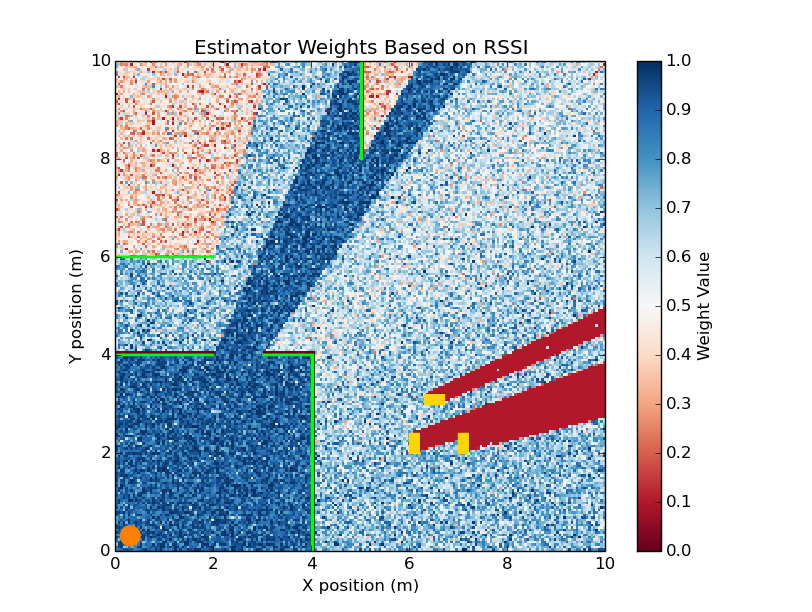
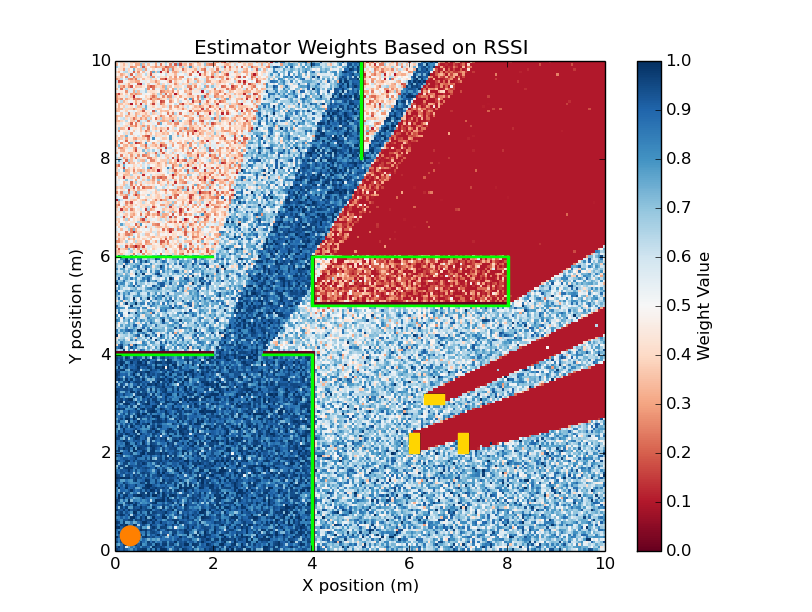
Added a path generation/follower and added a new environment

diff --git a/main.py b/main.py
@@ -16,7 +16,7 @@ import matplotlib.pyplot as plt
 if __name__ == "__main__":
 
 	# Setup Environment and display boundaries and obstacles
-	env = Environment(2)
+	env = Environment(4)
 	print "Boundaries\n", env.boundaries
 	print "Obstacles\n", env.obstacles
 
@@ -172,6 +172,135 @@ if __name__ == "__main__":
 		p = ptc.Circle((ap['x'],ap['y']),radius=0.2,edgecolor="#ff8000",facecolor='#ff8000')
 		ax1.add_patch(p)
 		heat_weights(beacon_positions,all_weights[:,i-3],length,length,beacon_positions_x,beacon_positions_y)
+
+	## Create a path to "follow"
+	waypoints = [[2,2,0],[2.5,2,0],[2.5,5,0],[3,5,0],[3,7,0],[9,7,0],[9,1,0],[6.5,1,0],[6.5,1.5,0]]
+	path_points = []
+
+	step = .05
+	j = 0
+	path_points.append(waypoints[0])
+	for i in range(0,len(waypoints)-1):
+		while (path_points[j][0]!=waypoints[i+1][0]) or (path_points[j][1]!=waypoints[i+1][1]):
+			new_x = 0
+			new_y = 0
+			if( abs(waypoints[i+1][0]-path_points[j][0])>step ):
+				if( path_points[j][0]>waypoints[i+1][0] ):
+					new_x = path_points[j][0]-step
+				else:
+					new_x = path_points[j][0]+step
+			else:
+				new_x = waypoints[i+1][0]
+			if( abs(waypoints[i+1][1]-path_points[j][1])>step ):
+				if( path_points[j][1]>waypoints[i+1][1] ):
+					new_y = path_points[j][1]-step
+				else:
+					new_y = path_points[j][1]+step
+			else:
+				new_y = waypoints[i+1][1]
+			path_points.append([new_x,new_y,0])
+			j = j + 1
+
+	path_distances = []
+	# For each beacon position run the algorithm to obtain an estimated position
+	for b_pos in path_points:
+		path_distance = []
+		# If the point is in an obstacle, return zeros
+		if env.in_obstacle(b_pos):
+			for a in anchors:
+				path_distance.append(0)
+		else:
+			beacon.move_pos(b_pos[0],b_pos[1],b_pos[2])
+			bp = beacon.get_pos()
+			for a in anchors:
+				ap = a.get_pos()
+				collision = env.determine_NLOS([ap['x'],ap['y']],[bp['x'],bp['y']])
+
+				path_distance.append(get_distance(a,bp,collision))
+		path_distances.append(path_distance)
+
+	print len(path_points)
+
+	weighted_estimated_pos = np.zeros((len(path_points),3))
+	unweighted_estimated_pos = np.zeros((len(path_points),3))
+	# Use middle of room for guess
+	x_guess = np.array([5,5])
+
+	all_weights = np.zeros((len(path_distances),len(anchors)))
+	for i in range(len(path_distances)):
+
+		a_pos = np.zeros((len(anchors),2))
+		for j in range(len(anchors)):
+			pos = anchors[j].get_pos()
+			a_pos[j] = [pos['x'],pos['y']]
+
+		d = path_distances[i]
+		a_d = np.array(d)
+
+		if sum(d)==0:
+			weighted_estimated_pos[i] = path_points[i]
+		else:
+			## Use a solver to provide estimated position
+			## NLLS solver
+			weights = []
+			for j in range(0,len(anchors)):
+				expected_rssi = get_expected_rssi(a_d[j,0])
+				weights.append(max( min( 1,(1-(abs(a_d[j,1]-expected_rssi)/5)) ), 0.1 ))
+			all_weights[i,:] = weights
+			p_estimate = NLLS_opt(x_guess,a_pos,a_d[:,0],weights)
+			## ML solver
+			# p_estimate = ML_opt(x_guess,a_pos,a_d)
+			weighted_estimated_pos[i] = [p_estimate[0],p_estimate[1],0]
+
+	for i in range(len(path_distances)):
+
+		a_pos = np.zeros((len(anchors),2))
+		for j in range(len(anchors)):
+			pos = anchors[j].get_pos()
+			a_pos[j] = [pos['x'],pos['y']]
+
+		d = path_distances[i]
+		a_d = np.array(d)
+
+		if sum(d)==0:
+			unweighted_estimated_pos[i] = path_points[i]
+		else:
+			## Use a solver to provide estimated position
+			## NLLS solver
+			weights = []
+			for j in range(0,len(anchors)):
+				weights.append(1)
+			p_estimate = NLLS_opt(x_guess,a_pos,a_d[:,0],weights)
+			## ML solver
+			# p_estimate = ML_opt(x_guess,a_pos,a_d)
+			unweighted_estimated_pos[i] = [p_estimate[0],p_estimate[1],0]
+
+
+	plt.figure(1)
+	for i in range(len(anchors)):
+		ap = anchors[i].get_pos()
+		fig = plt.figure(1)
+		ax1 = fig.add_subplot(111,aspect='equal')
+		p = ptc.Circle((ap['x'],ap['y']),radius=0.2,edgecolor="#ff8000",facecolor='#ff8000')
+		ax1.add_patch(p)
+	env.draw_obstacles(1)
+	plt.xlabel("X position (m)")
+	plt.ylabel("Y position (m)")
+	plt.title("Actual Path versus Estimated Path with Weighting")
+	scatter_path(np.array(path_points),weighted_estimated_pos)
+
+	plt.figure(2)
+	for i in range(len(anchors)):
+		ap = anchors[i].get_pos()
+		fig = plt.figure(2)
+		ax1 = fig.add_subplot(111,aspect='equal')
+		p = ptc.Circle((ap['x'],ap['y']),radius=0.2,edgecolor="#ff8000",facecolor='#ff8000')
+		ax1.add_patch(p)
+	env.draw_obstacles(2)
+	plt.xlabel("X position (m)")
+	plt.ylabel("Y position (m)")
+	plt.title("Actual Path versus Estimated Path without Weighting")
+	scatter_path(np.array(path_points),unweighted_estimated_pos)
 
 	raw_input("Press enter to exit...")
  

diff --git a/environment.py b/environment.py
@@ -19,6 +19,8 @@ class Environment:
             self.boundaries = {'x':[0, 10],'y':[0, 10]}
         elif environment_number == 3:
             self.boundaries = {'x':[0, 6],'y':[0, 7]}
+        elif environment_number == 4:
+        	self.boundaries = {'x':[0,10],'y':[0,10]}
         
         self.obstacles = get_obstacles( environment_number )
 
@@ -162,6 +164,39 @@ def get_obstacles( environment_number ):
 		obstacles[15] = {'x':[6,6.2],'y':[2,2.4],'dc':52.7}
 		obstacles[16] = {'x':[7,7.2],'y':[2,2.4],'dc':52.7}
 		obstacles[17] = {'x':[6.3,6.7],'y':[3,3.2],'dc':52.7}
+		return obstacles
+	elif environment_number==4:
+		obstacles = {}
+		obstacles[0] = {'x':[4,4.00635],'y':[0,4],'dc':2.44}
+		obstacles[1] = {'x':[4.00635,4.01905],'y':[0,4],'dc':2.49}
+		obstacles[2] = {'x':[4.01905,4.0254],'y':[0,4],'dc':2.44}
+		obstacles[3] = {'x':[0,2],'y':[4,4.00635],'dc':2.44}
+		obstacles[4] = {'x':[0,2],'y':[4.00635,4.01905],'dc':2.49}
+		obstacles[5] = {'x':[0,2],'y':[4.01905,4.0254],'dc':2.44}  
+		obstacles[6] = {'x':[3,4.0254],'y':[4,4.00635],'dc':2.44}
+		obstacles[7] = {'x':[3,4.0254],'y':[4.00635,4.01905],'dc':2.49}
+		obstacles[8] = {'x':[3,4.0254],'y':[4.01905,4.0254],'dc':2.44}  
+		obstacles[9] = {'x':[0,2],'y':[6,6.00635],'dc':2.44}
+		obstacles[10] = {'x':[0,2],'y':[6.00635,6.01905],'dc':2.49}
+		obstacles[11] = {'x':[0,2],'y':[6.01905,6.0254],'dc':2.44}  
+		obstacles[12] = {'x':[5,5.00635],'y':[8,10],'dc':2.44}
+		obstacles[13] = {'x':[5.00635,5.01905],'y':[8,10],'dc':2.49}
+		obstacles[14] = {'x':[5.01905,5.0254],'y':[8,10],'dc':2.44}
+		obstacles[15] = {'x':[6,6.2],'y':[2,2.4],'dc':52.7}
+		obstacles[16] = {'x':[7,7.2],'y':[2,2.4],'dc':52.7}
+		obstacles[17] = {'x':[6.3,6.7],'y':[3,3.2],'dc':52.7}
+		obstacles[18] = {'x':[4,4.00635],'y':[5,6],'dc':2.44}
+		obstacles[19] = {'x':[4.00635,4.01905],'y':[5,6],'dc':2.49}
+		obstacles[20] = {'x':[4.01905,4.0254],'y':[5,6],'dc':2.44}
+		obstacles[21] = {'x':[8,8.00635],'y':[5,6],'dc':2.44}
+		obstacles[22] = {'x':[8.00635,8.01905],'y':[5,6],'dc':2.49}
+		obstacles[23] = {'x':[8.01905,8.0254],'y':[5,6],'dc':2.44}
+		obstacles[24] = {'x':[4.0254,8],'y':[5,5.00635],'dc':2.44}
+		obstacles[25] = {'x':[4.0254,8],'y':[5.00635,5.01905],'dc':2.49}
+		obstacles[26] = {'x':[4.0254,8],'y':[5.01905,5.0254],'dc':2.44}
+		obstacles[27] = {'x':[4,8.0254],'y':[6,6.00635],'dc':2.44}
+		obstacles[28] = {'x':[4,8.0254],'y':[6.00635,6.01905],'dc':2.49}
+		obstacles[29] = {'x':[4,8.0254],'y':[6.01905,6.0254],'dc':2.44}
 		return obstacles
 	else:
 		obstacles = {}

diff --git a/visualization.py b/visualization.py
@@ -106,6 +106,17 @@ def heat_weights(locations, weights, xSize, ySize, xl, yl):
     plt.show()
 
 
+def scatter_path(actual_locations, estimated_locations):
+    plt.scatter(actual_locations[:,0],actual_locations[:,1])
+    plt.scatter(estimated_locations[:,0],estimated_locations[:,1],c='r')
+    plt.axis([0,10,0,10])
+    plt.show()
+
+    error = 0
+    for x in range(len(actual_locations)):
+        error = error + ((actual_locations[x,0]-estimated_locations[x,0])**2 + (actual_locations[x,1]-estimated_locations[x,1])**2)**0.5
+
+    print "Average Estimated error: ", error/len(actual_locations)
 
 
 
